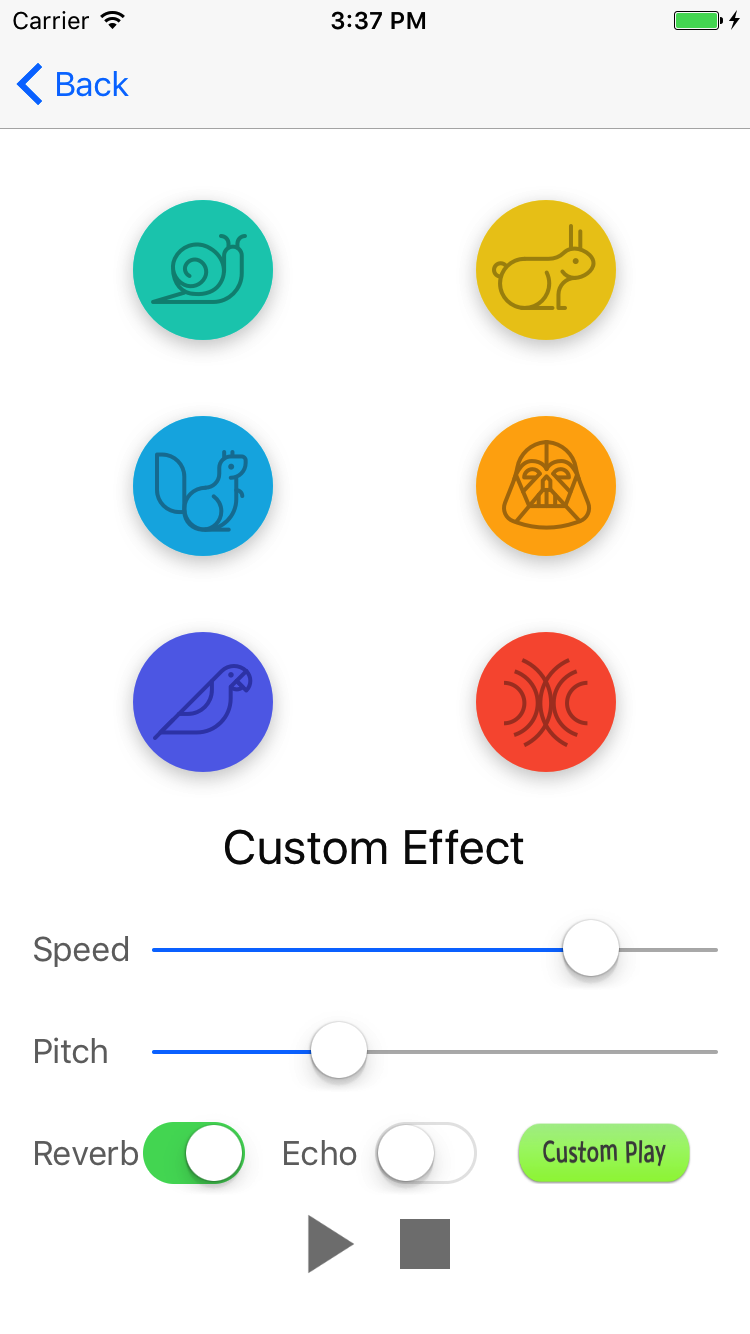
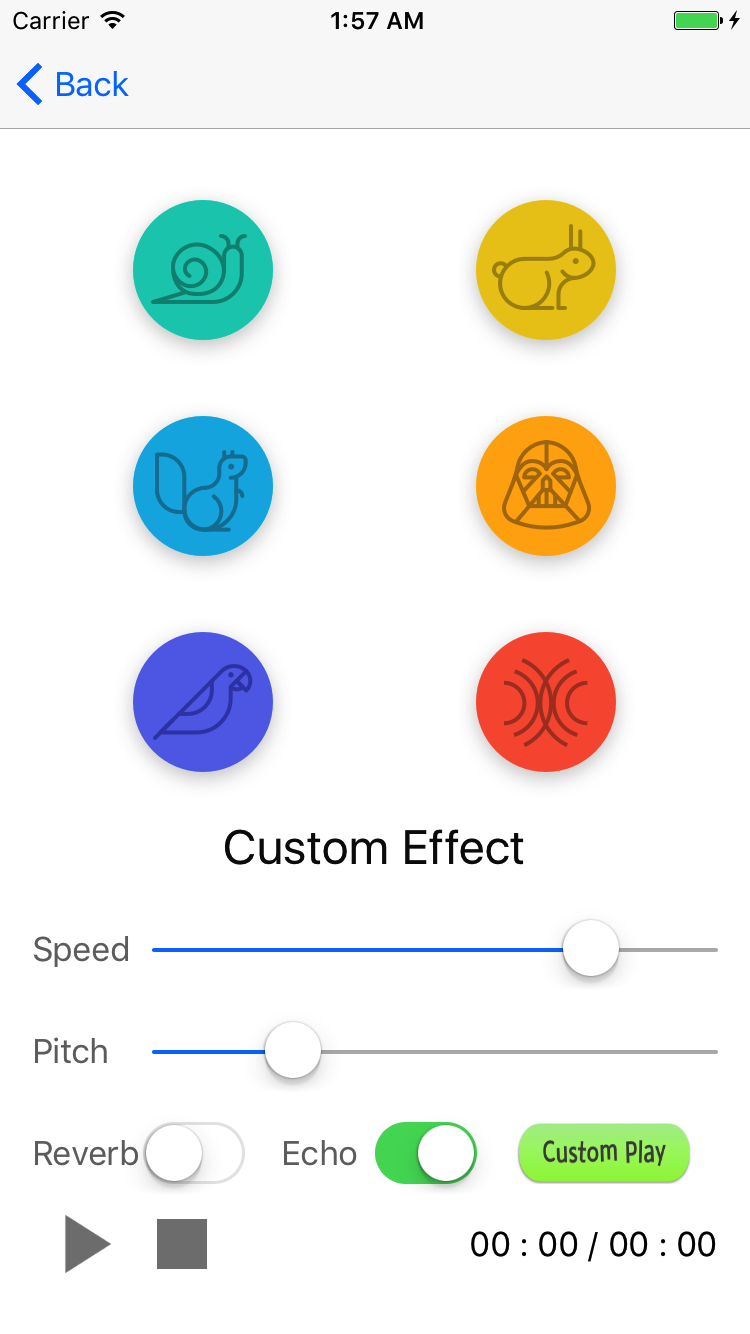
Add playtime label and Update README image

diff --git a/PitchPerfect/playsoundsviewcontroller-audio.swift b/PitchPerfect/playsoundsviewcontroller-audio.swift
@@ -27,10 +27,11 @@ extension PlaySoundsViewController: AVAudioPlayerDelegate {
         static let AudioEngineError = "Audio Engine Error"
     }
     
+
     
     // MARK: PlayingState (raw values correspond to sender tags)
     
-    enum PlayingState { case playing, pausing, notPlaying }
+    enum PlayingState { case willPlaying, playing, pausing, notPlaying }
     
     
     // MARK: Audio Functions
@@ -93,12 +94,25 @@ extension PlaySoundsViewController: AVAudioPlayerDelegate {
             connectAudioNodes(audioPlayerNode, changeRatePitchNode, audioEngine.outputNode)
         }
         
+        
+        // set endPlayTime
+        if let rate = rate {
+            self.endPlayTime = Double(self.audioFile.length) / Double(self.audioFile.processingFormat.sampleRate) / Double(rate)
+            
+            // set rateTemp for currentPlayTime
+            self.rateTemp = rate
+        } else {
+            self.endPlayTime = Double(self.audioFile.length) / Double(self.audioFile.processingFormat.sampleRate)
+        }
+        
+        
         // schedule to play and start the engine!
         
         audioPlayerNode.stop()
         audioPlayerNode.scheduleFile(audioFile, at: nil) {
             
             var delayInSeconds: Double = 0
+
             
             if let lastRenderTime = self.audioPlayerNode.lastRenderTime, let playerTime = self.audioPlayerNode.playerTime(forNodeTime: lastRenderTime) {
                 
@@ -108,9 +122,8 @@ extension PlaySoundsViewController: AVAudioPlayerDelegate {
                     delayInSeconds = Double(self.audioFile.length - playerTime.sampleTime) / Double(self.audioFile.processingFormat.sampleRate)
                 }
             }
-            
+
             // schedule a stop timer for when audio finishes playing
-            
             self.stopTimer = Timer(timeInterval: delayInSeconds, target: self, selector: #selector(PlaySoundsViewController.stopAudio), userInfo: nil, repeats: false)
             RunLoop.main.add(self.stopTimer!, forMode: RunLoopMode.defaultRunLoopMode)
         }
@@ -124,15 +137,42 @@ extension PlaySoundsViewController: AVAudioPlayerDelegate {
         
         // play the recording!
         audioPlayerNode.play()
+        setCurrentPlayTimer()
+        
     }
     
+    func setCurrentPlayTimer() {
+        self.currentPlayTimer = Timer.scheduledTimer(timeInterval: 1, target: self, selector: #selector(PlaySoundsViewController.updateCurrentPlayTime), userInfo: nil, repeats: true)
+        
+    }
+    
+    
+    func updateCurrentPlayTime() {
+        if let lastRenderTime = self.audioPlayerNode.lastRenderTime, let playerTime = self.audioPlayerNode.playerTime(forNodeTime: lastRenderTime) {
+            if let rate = self.rateTemp {
+                currentPlayTime = Double(playerTime.sampleTime) / Double(self.audioFile.processingFormat.sampleRate) / Double(rate)
+            } else {
+                currentPlayTime = Double(playerTime.sampleTime) / Double(self.audioFile.processingFormat.sampleRate)
+            }
+        }
+        configureUI(.playing)
+    }
+    
+    
+    
     func stopAudio() {
+        if self.rateTemp != nil {
+            self.rateTemp = nil
+        }
         if let audioPlayerNode = audioPlayerNode {
             audioPlayerNode.stop()
         }
         if let stopTimer = stopTimer {
             stopTimer.invalidate()
         }
+        if let currentPlayTimer = currentPlayTimer {
+            currentPlayTimer.invalidate()
+       }
         configureUI(.notPlaying)
         if let audioEngine = audioEngine {
             audioEngine.stop()
@@ -144,8 +184,9 @@ extension PlaySoundsViewController: AVAudioPlayerDelegate {
         if let audioPlayerNode = audioPlayerNode {
             audioPlayerNode.play()
         }
-        configureUI(.playing)
+        configureUI(.willPlaying)
     }
+    
     
     func pauseAudio() {
         if let audioPlayerNode = audioPlayerNode {
@@ -168,11 +209,15 @@ extension PlaySoundsViewController: AVAudioPlayerDelegate {
     
     func configureUI(_ playState: PlayingState) {
         switch(playState) {
-        case .playing:
+        case .willPlaying:
             setPlayButtonsEnabled(false)
             stopButton.isEnabled = true
             playPauseButton.isEnabled = true
             playPauseButton.setImage(UIImage(named:"Play.png"), for: UIControlState.normal)
+            endPlayTimeLabel.text = NSString(format: "%02d : %02d", Int(endPlayTime/60), Int(endPlayTime)%60) as String
+
+        case .playing:
+            currentPlayTimeLabel.text = NSString(format: "%02d : %02d", Int(currentPlayTime/60), Int(currentPlayTime)%60) as String
 
         case .pausing:
             setPlayButtonsEnabled(false)
@@ -185,6 +230,8 @@ extension PlaySoundsViewController: AVAudioPlayerDelegate {
             stopButton.isEnabled = false
             playPauseButton.setImage(UIImage(named:"Play.png"), for: UIControlState.normal)
             playPauseButton.isEnabled = false
+            endPlayTimeLabel.text = "00 : 00"
+            currentPlayTimeLabel.text = "00 : 00"
         }
     }
     

diff --git a/PitchPerfect/PlaySoundsViewController.swift b/PitchPerfect/PlaySoundsViewController.swift
@@ -25,12 +25,20 @@ class PlaySoundsViewController: UIViewController {
     
     @IBOutlet weak var stopButton: UIButton!
     @IBOutlet weak var playPauseButton: UIButton!
+    @IBOutlet weak var currentPlayTimeLabel: UILabel!
+    @IBOutlet weak var endPlayTimeLabel: UILabel!
     
     var recordedAudioURL: URL!
     var audioFile: AVAudioFile!
     var audioEngine: AVAudioEngine!
     var audioPlayerNode: AVAudioPlayerNode!
     var stopTimer: Timer!
+    var currentPlayTimer: Timer!
+
+    var isShowPlayButton = false
+    var endPlayTime: Double = 0
+    var currentPlayTime: Double = 0
+    var rateTemp: Float? = nil
     
     enum ButtonType: Int { case slow = 0, fast, highPitch, lowPitch, echo, reverb, custom}
     
@@ -51,11 +59,10 @@ class PlaySoundsViewController: UIViewController {
         case .custom:
             playSound(rate: speedSlider.value, pitch: pitchSlider.value, echo: echoSwitch.isOn, reverb: reverbSwitch.isOn)
         }
-        configureUI(.playing)
+        configureUI(.willPlaying)
     }
+        
     
-    
-    var isShowPlayButton = false
     @IBAction func playPauseButton(_ sender: UIButton) {
         if isShowPlayButton == true {
             playAudio()
@@ -80,6 +87,5 @@ class PlaySoundsViewController: UIViewController {
         super.viewWillAppear(animated)
         configureUI(.notPlaying)
     }
-
 
 }

diff --git a/PitchPerfect/RecordSoundsViewController.swift b/PitchPerfect/RecordSoundsViewController.swift
@@ -64,9 +64,7 @@ class RecordSoundsViewController: UIViewController, AVAudioRecorderDelegate {
     
     // set time format and update label text
     func updateRecordTime() {
-        let min = Int(audioRecorder.currentTime/60)
-        let sec = Int(audioRecorder.currentTime)%60
-        recordingLabel.text = NSString(format: "%02d : %02d", min, sec) as String
+        recordingLabel.text = NSString(format: "%02d : %02d", Int(audioRecorder.currentTime/60), Int(audioRecorder.currentTime)%60) as String
     }
     
     
